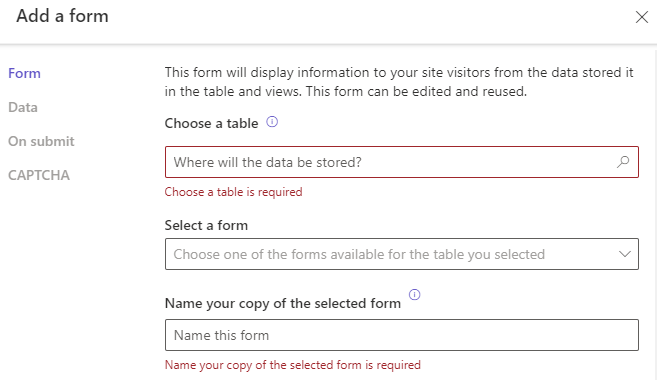
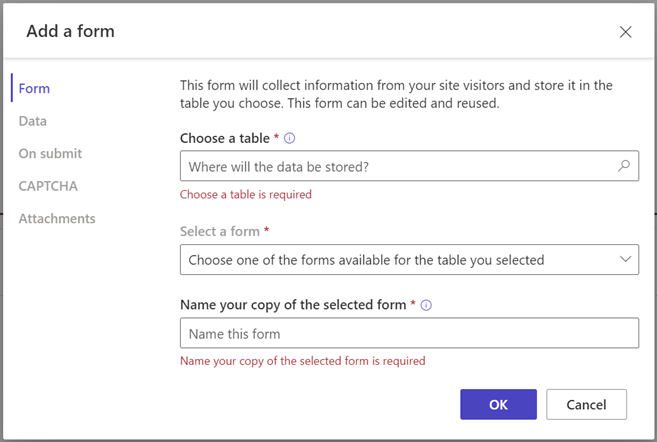
2921003

Changed region(s): [[0.0, 0.0, 1.0, 1.0]]

diff --git a/power-pages-docs/getting-started/add-form.md b/power-pages-docs/getting-started/add-form.md
@@ -50,7 +50,8 @@ To add a form:
     | Name your copy of the selected form| Give your copy of the form a name. |
     | Data | You can choose to have the data that's entered by a user create a new record, update existing records, or make the data read-only. |
     | On submit | You can choose optionally to show a success message. You must enter the options to redirect to a webpage and redirect to a URL. |
-    | Captcha | You can choose to show a captcha to anonymous users, authenticated users, or both.
+    | CAPTCHA | You can choose to show a captcha to anonymous users, authenticated users, or both. |
+    | Attachments | Allows you to [enable and configure attachments](#enable-attachments-on-a-form) for the form. |
 
     > [!NOTE]
     > You'll need to enable [table permissions](../security/table-permissions.md) to ensure that users will be able to interact with the data on the forms.
